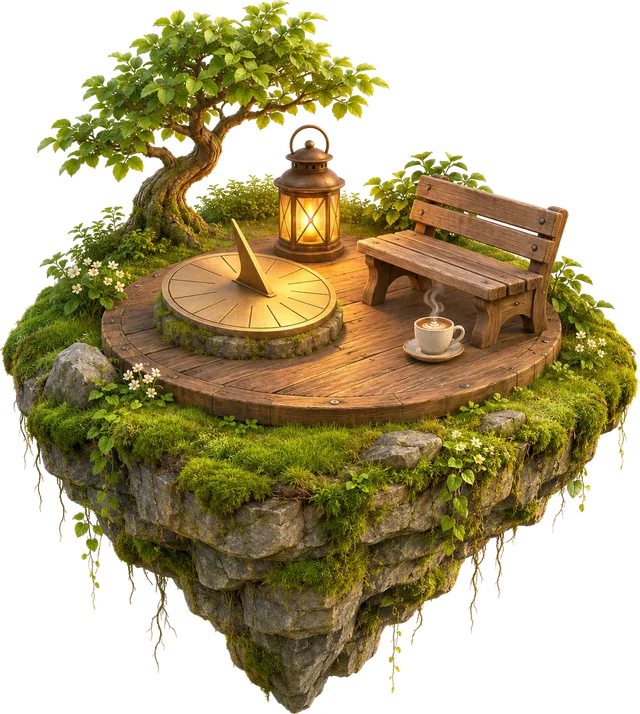
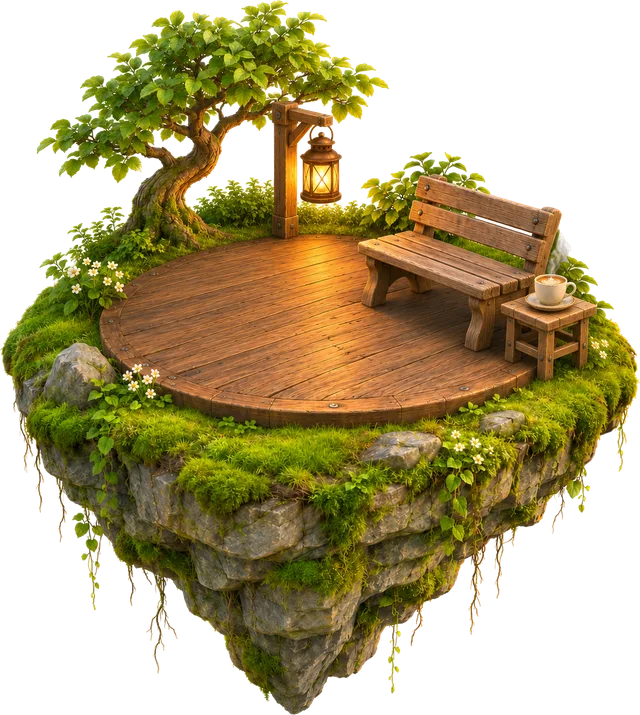
Neue Heute-Insel ohne Sonnenuhr, Info-Ring auf der leeren Plattform; Startseite: Texte überdecken keine Inseln mehr
Claude-Session: https://claude.ai/code/session_01Bea5Y1uKo4kG3DT62iBBFM

Changed region(s): [[0.0, 0.0, 1.0, 1.0], [0.4375, 0.8627, 0.4688, 0.8936]]

diff --git a/src/styles/global.css b/src/styles/global.css
@@ -276,15 +276,16 @@ p { margin: 0; }
 .ms > span:first-of-type { line-height: 1.2; }
 
 /* start world */
-.start-clock { position: absolute; left: 3.2%; top: 11%; animation: rise var(--t-mid) var(--ease) both; color: #f4f6fb; text-shadow: 0 2px 20px rgba(0,0,0,.5); }
+.start-clock { position: absolute; left: 3.2%; top: 11%; max-width: 17cqw; animation: rise var(--t-mid) var(--ease) both; color: #f4f6fb; text-shadow: 0 2px 20px rgba(0,0,0,.5); }
 .start-clock b { font-size: clamp(44px, 5.2cqw, 84px); font-weight: 600; letter-spacing: -.03em; line-height: 1; display: block; }
 .start-clock span { font-size: clamp(13px, 1.15cqw, 18px); color: rgba(244,246,251,.85); display: block; margin-top: 6px; }
-.start-clock .quote { margin-top: 16px; font-size: clamp(13px, 1.15cqw, 18px); color: rgba(244,246,251,.9); max-width: 22cqw; line-height: 1.35; }
-.start-weather { position: absolute; right: 3.2%; top: 12%; display: flex; align-items: center; gap: 14px; animation: rise var(--t-mid) var(--ease) both; color: #f4f6fb; text-shadow: 0 2px 16px rgba(0,0,0,.5); }
+.start-clock .quote { margin-top: 14px; font-size: clamp(13px, 1.1cqw, 17px); color: rgba(244,246,251,.9); max-width: 17cqw; line-height: 1.35; }
+.start-weather { position: absolute; right: 3.2%; top: 12%; max-width: 17cqw; display: flex; flex-wrap: wrap; justify-content: flex-end; align-items: center; gap: 10px 14px; text-align: right; animation: rise var(--t-mid) var(--ease) both; color: #f4f6fb; text-shadow: 0 2px 16px rgba(0,0,0,.5); }
 .start-weather b { font-size: clamp(22px, 2.2cqw, 34px); font-weight: 600; line-height: 1; display: block; }
 .start-weather span { font-size: 13px; color: rgba(244,246,251,.85); display: block; }
 .start-weather .sep { width: 1px; height: 44px; background: rgba(255,255,255,.35); }
-.start-weather .motto { font-size: 14px; max-width: 160px; line-height: 1.3; }
+.start-weather .motto { font-size: 14px; max-width: 17cqw; line-height: 1.3; }
+.start-weather .sep { display: none; }
 .minicard { position: absolute; padding: 9px 11px; display: flex; flex-direction: column; gap: 5px; font-size: 12px; min-width: 150px; max-width: 220px; animation: rise var(--t-mid) var(--ease) both; animation-delay: var(--delay, 0ms); }
 .minicard .row { gap: 7px; }
 .minicard .pv { display: flex; align-items: flex-end; gap: 2px; height: 22px; }
@@ -390,7 +391,7 @@ p { margin: 0; }
 @keyframes season-tumble { 0% { transform: translate3d(0, 0, 0) rotate(var(--rot)); } 25% { transform: translate3d(var(--dx), 28vh, 0) rotate(calc(var(--rot) + 160deg)); } 50% { transform: translate3d(calc(var(--dx) * -1), 56vh, 0) rotate(calc(var(--rot) + 380deg)); } 75% { transform: translate3d(var(--dx), 84vh, 0) rotate(calc(var(--rot) + 540deg)); } 100% { transform: translate3d(0, 112vh, 0) rotate(calc(var(--rot) + 720deg)); } }
 @keyframes season-glow { 0%, 100% { opacity: 0; transform: translate3d(0, 0, 0); } 30% { opacity: 1; transform: translate3d(calc(var(--dx) * .3), -10px, 0); } 60% { opacity: .35; transform: translate3d(calc(var(--dx) * .55), -22px, 0); } 80% { opacity: .9; transform: translate3d(calc(var(--dx) * .4), -30px, 0); } }
 .season-fx--still i, :root[data-motion="reduziert"] .season-fx i { animation: none !important; opacity: .35; top: calc(10% + var(--delay, 0s) * 0); }
-.start-season { display: block; margin-top: 4px; font-size: clamp(11px, .9cqw, 14px); color: rgba(255,255,255,.85); }
+.start-season { display: block; margin-top: 4px; font-size: clamp(11px, .9cqw, 14px); color: rgba(255,255,255,.85); line-height: 1.35; }
 .stage[data-season="winter"] .ground-mist { opacity: 1.15; }
 
 /* ---------- flow columns for side panels ---------- */
@@ -399,9 +400,9 @@ p { margin: 0; }
 .panel-col > .panel > .panel__body { overflow: auto; min-height: 0; flex: 1 1 auto; scrollbar-width: thin; }
 
 /* ---------- Heute info ring: floating glass ring over the island platform ---------- */
-.inforing { position: absolute; left: 14.7%; top: 18.8%; width: 48%; aspect-ratio: 1; pointer-events: none; animation: fade var(--t-mid) var(--ease) both; }
+.inforing { position: absolute; left: 14.5%; top: 9.6%; width: 79%; aspect-ratio: 1; pointer-events: none; animation: fade var(--t-mid) var(--ease) both; }
 .inforing__tilt { position: absolute; inset: 0; transform-origin: 50% 50%; filter: drop-shadow(0 6px 10px rgba(0,0,0,.35)); animation: ring-hover 6s ease-in-out infinite; }
-.inforing__shadow { position: absolute; left: 14%; right: 14%; top: 40%; height: 30%; border-radius: 50%; background: radial-gradient(50% 50% at 50% 50%, rgba(20,10,0,.38), transparent 70%); filter: blur(4px); animation: ring-hover-shadow 6s ease-in-out infinite; }
+.inforing__shadow { position: absolute; left: 12%; right: 12%; top: 36%; height: 32%; border-radius: 50%; background: radial-gradient(50% 50% at 50% 50%, rgba(20,10,0,.38), transparent 70%); filter: blur(4px); animation: ring-hover-shadow 6s ease-in-out infinite; }
 @keyframes ring-hover { 0%, 100% { translate: 0 0; } 50% { translate: 0 -1.2%; } }
 @keyframes ring-hover-shadow { 0%, 100% { opacity: 1; scale: 1; } 50% { opacity: .8; scale: 1.04; } }
 .inforing__h { position: absolute; transform: translate(-50%, -50%); font-size: clamp(9px, .7cqw, 12px); font-weight: 700; letter-spacing: .04em; color: #fff; text-shadow: 0 1px 3px rgba(0,0,0,.9), 0 0 6px rgba(0,0,0,.5); }

diff --git a/src/scene/Island.tsx b/src/scene/Island.tsx
@@ -5,12 +5,12 @@ import { IArrowR } from '../ui/Icons';
 export const ISLAND_META: Record<LibraryIsland, { w: number; h: number; disc?: { cx: number; cy: number; rx: number; ry: number } }> = {
   werkstatt: { w: 1191, h: 1106 }, elektronik: { w: 1172, h: 1140 }, ideen: { w: 1196, h: 1145 },
   rahmen: { w: 1167, h: 597, disc: { cx: 50, cy: 30, rx: 29, ry: 11 } },
-  heute: { w: 1082, h: 1207 }, material: { w: 1081, h: 1219 }, wetter: { w: 1084, h: 1205 }, archiv: { w: 1079, h: 1205 }, drucker: { w: 1081, h: 1188 },
+  heute: { w: 1082, h: 1209 }, material: { w: 1081, h: 1219 }, wetter: { w: 1084, h: 1205 }, archiv: { w: 1079, h: 1205 }, drucker: { w: 1081, h: 1188 },
   'projekt-garten': { w: 1081, h: 1167 }, 'projekt-haushalt': { w: 1080, h: 1168 }, 'projekt-fahrzeug': { w: 1080, h: 1209 }, 'projekt-buero': { w: 1080, h: 1186 },
   'projekt-hobby': { w: 1079, h: 1204 }, 'projekt-technik': { w: 1086, h: 1208 }, 'projekt-deko': { w: 1081, h: 1196 }, 'projekt-modell': { w: 1080, h: 1195 },
 };
 /** Bump when island sprites change: the CDN and browsers cache /img/* for a year (immutable), so the URL must change. */
-export const ASSET_VERSION = '20261106b';
+export const ASSET_VERSION = '20261106c';
 export const islandSrc = (id: LibraryIsland, w: 1254 | 640 | 256) => `/img/insel-${id}-${w}.webp?v=${ASSET_VERSION}`;
 
 export interface IslandProps {

diff --git a/src/ui/InfoRing.tsx b/src/ui/InfoRing.tsx
@@ -46,7 +46,7 @@ export function useRingData(now: Date) {
  * pearls, a sun/moon "now" marker, upright hour marks, the clock in its centre and the next events as upright tags
  * attached to their position on the ring. Rendered as a child of the island (it floats and scales with it).
  */
-export function InfoRing({ tilt = 62 }: { tilt?: number }) {
+export function InfoRing({ tilt = 68 }: { tilt?: number }) {
   const now = useNow(1000);
   const { sunrise, sunset, arcs, dots, upcoming } = useRingData(now);
   const { tasks, prints } = useStore(useShallow((s) => ({ tasks: s.tasks, prints: s.prints })));

diff --git a/src/scene/worldLayouts.ts b/src/scene/worldLayouts.ts
@@ -10,7 +10,7 @@ export const LABELS: Record<WorldId, [string, string]> = {
 
 /** Start world: six large islands in two rows. */
 export const START_POS: Record<WorldId, [number, number, number, number]> = {
-  heute: [50, 27, 23, 0], projekte: [15, 29, 15.5, 0.12], druck: [85, 29, 15.5, 0.12],
+  heute: [50, 27, 23, 0], projekte: [28, 31, 14, 0.12], druck: [72, 31, 14, 0.12],
   material: [22, 67, 15.5, 0.05], wetter: [50, 69, 15, 0.08], archiv: [79, 67, 15.5, 0.05],
 };
 export function startIslands(): Placement[] {
